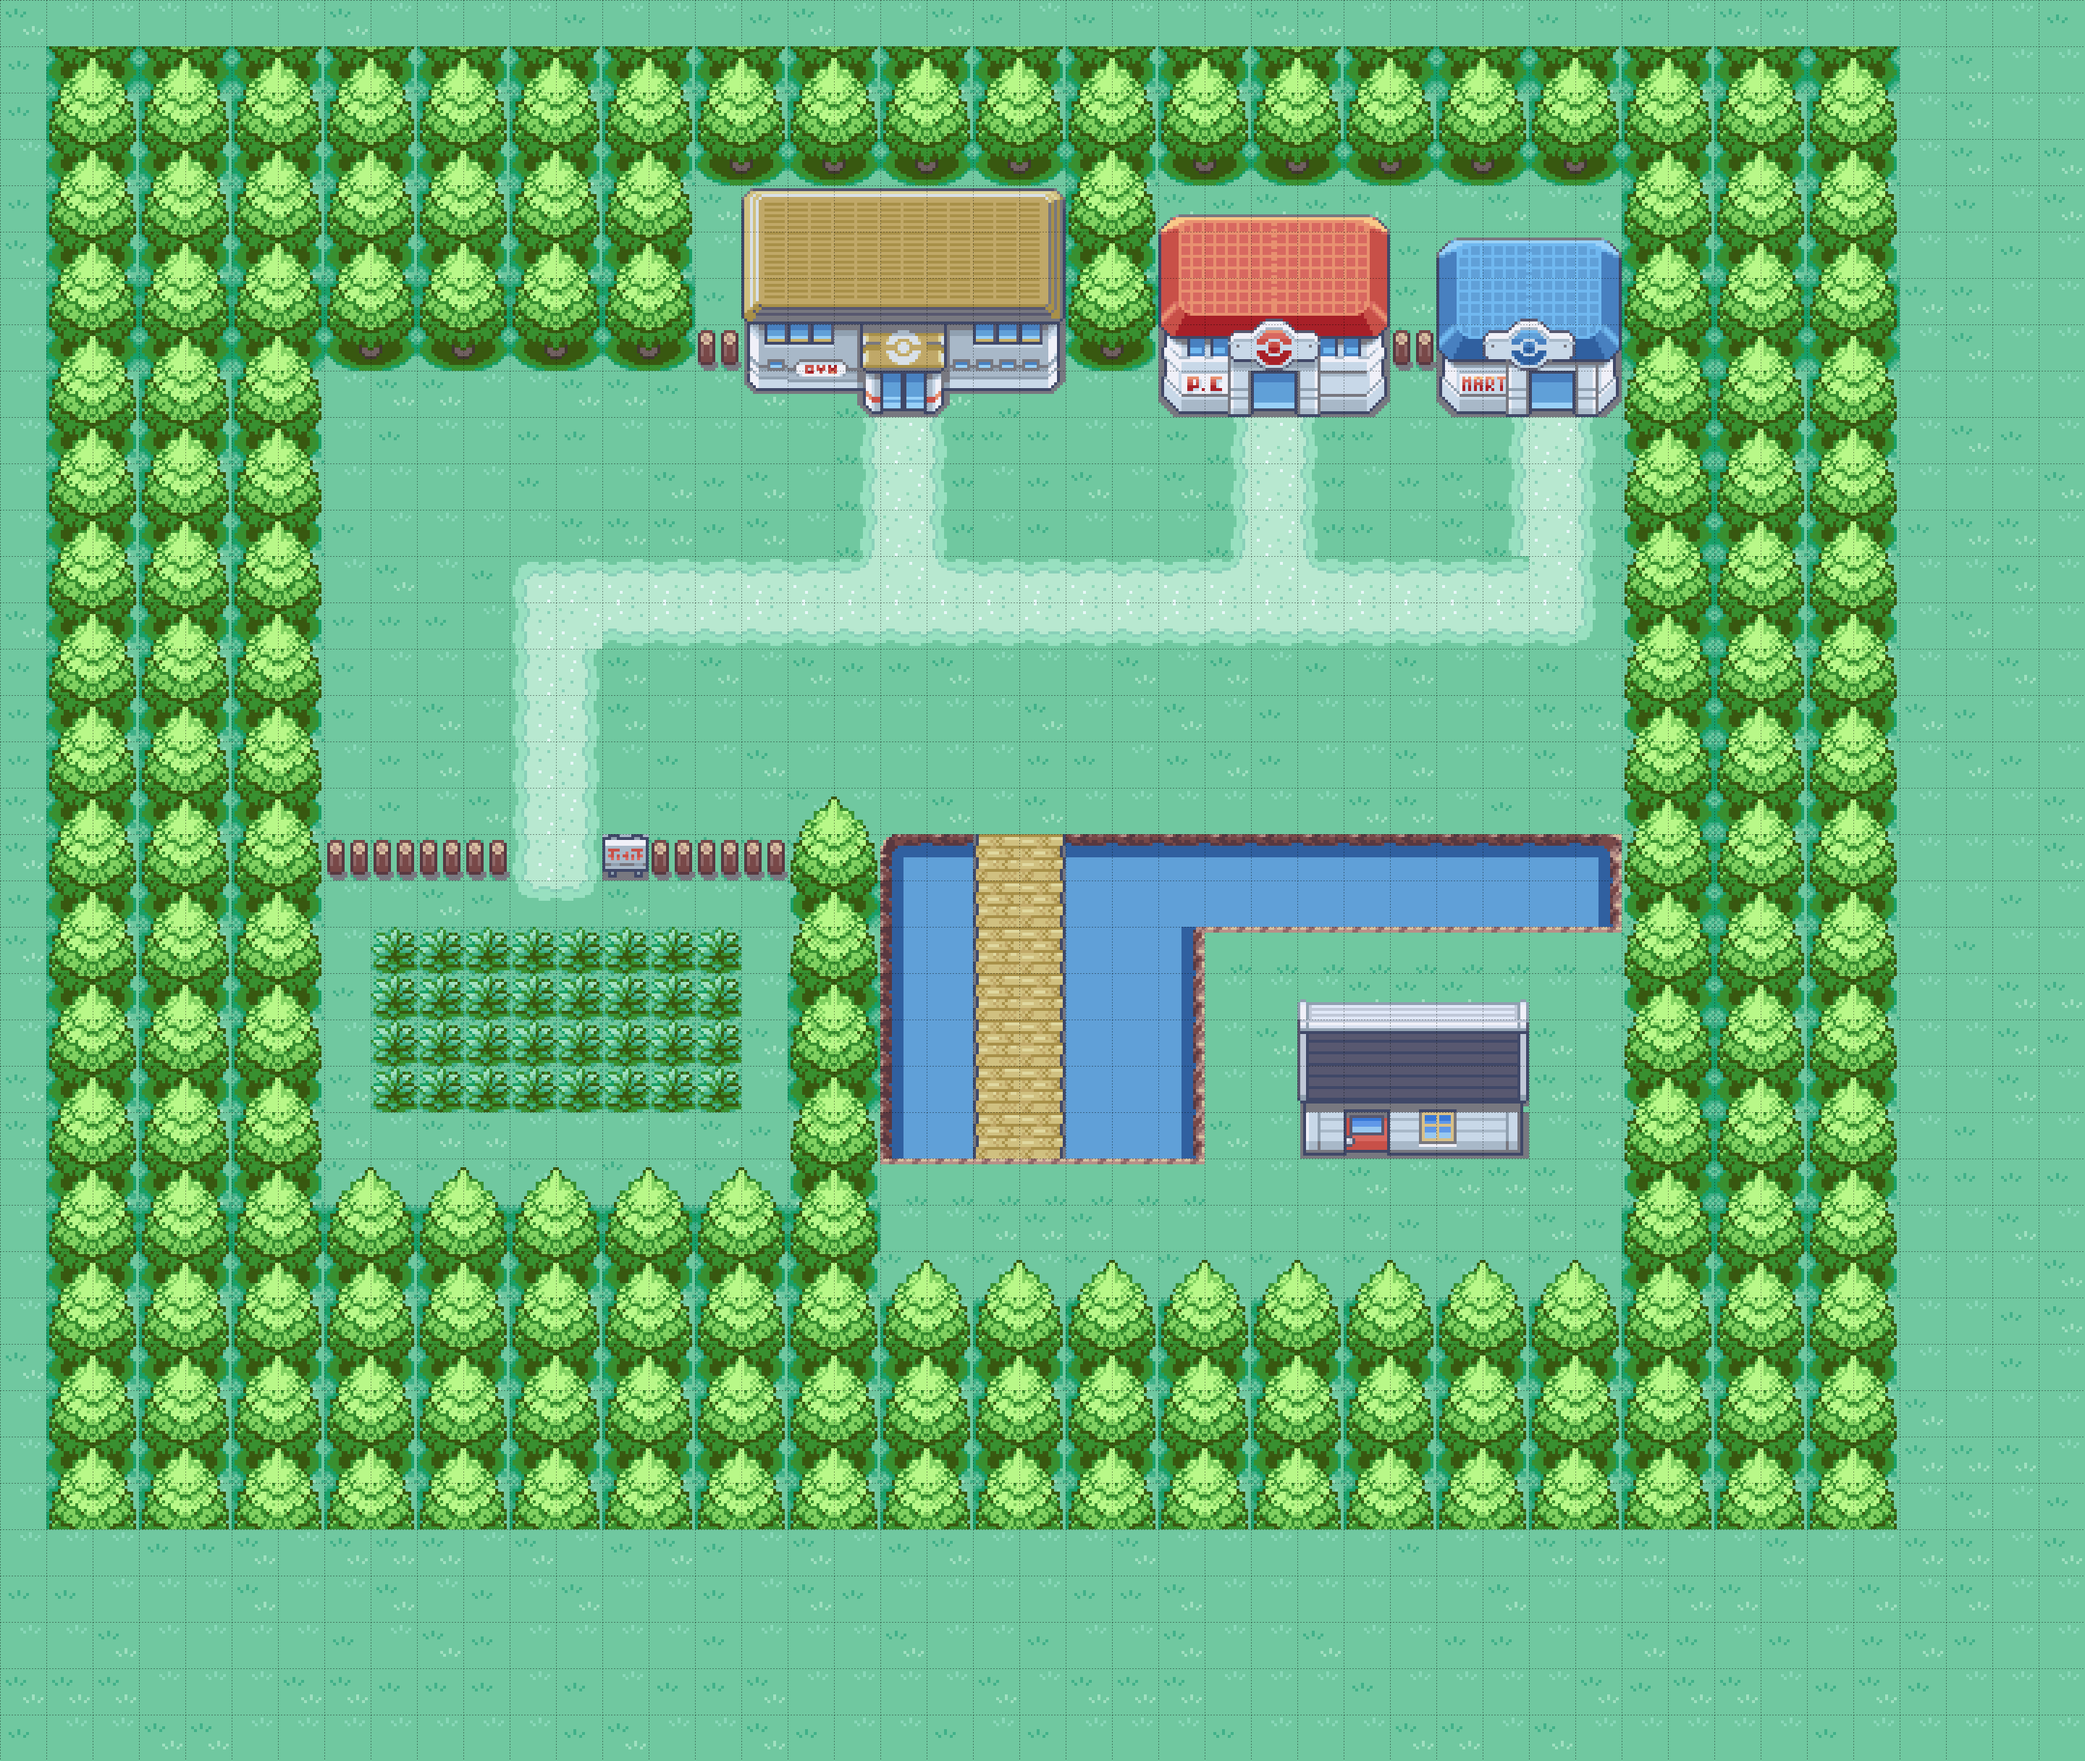
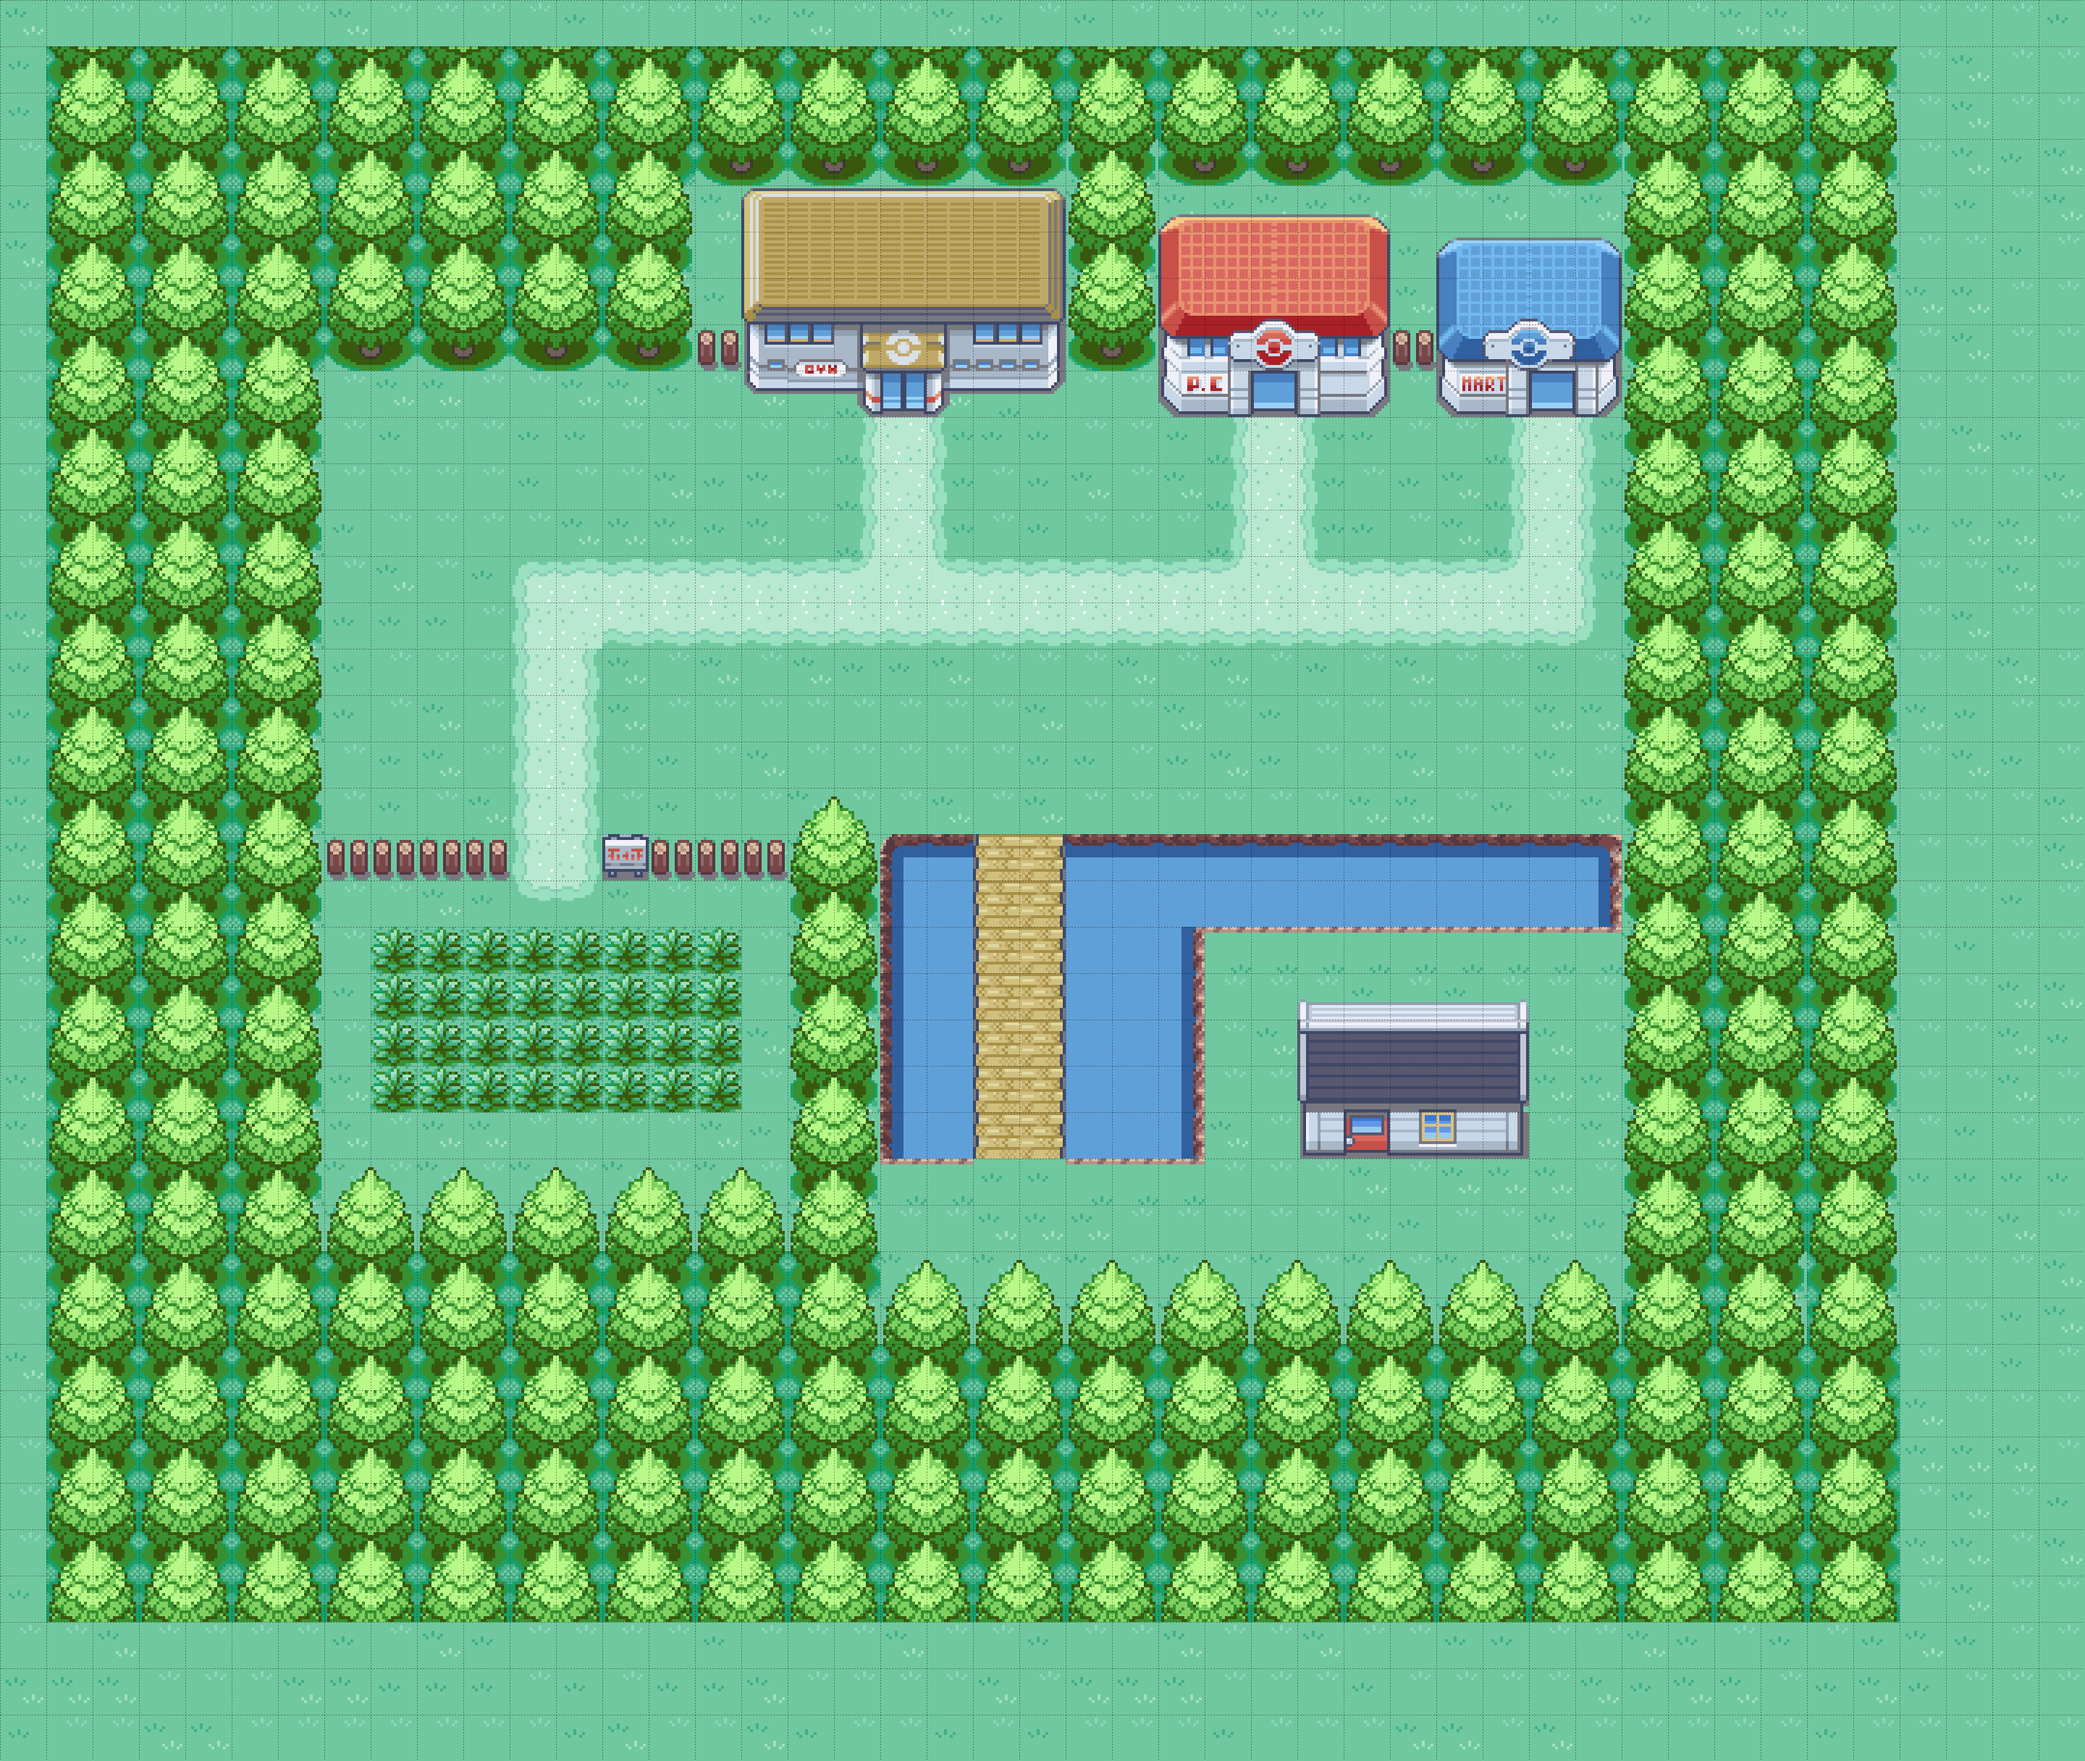
Implimented foreground

diff --git a/src/map.js b/src/map.js
@@ -9,6 +9,9 @@ export class Map {
         this.mapFile = mapFile;
         this.viewport = viewport;
 
+        this.foreground = new Image();
+        this.foreground.src = './img/maps/the-clearing-demo-foreground.png';
+
         this.spawnTile = {x: 15, y: 15};
 
         this.width = this.mapFile.width;
@@ -30,6 +33,27 @@ export class Map {
         
         ctx.drawImage(
             this.img,
+            
+            this.viewport.px - this.viewport.screen.x / 2,
+            this.viewport.py - this.viewport.screen.y / 2,
+
+            this.viewport.screen.x,
+            this.viewport.screen.y,
+
+            0,
+            0,
+
+            this.viewport.screen.x,
+            this.viewport.screen.y
+                    
+        );
+
+    }
+
+    drawFG () {
+        // console.log(typeof this.foreground)
+        ctx.drawImage(
+            this.foreground,
             
             this.viewport.px - this.viewport.screen.x / 2,
             this.viewport.py - this.viewport.screen.y / 2,

diff --git a/index.js b/index.js
@@ -4,7 +4,7 @@ import {Pokemon} from './src/pokemon.js'
 // import {toIndex} from './src/useful-functions.js';
 
 // mapFiles
-import clearingMapFile from './src/the-clearing-demo-mapfile-2.json' assert {type: 'json'};
+import clearingMapFile from './src/the-clearing-demo-mapfile.json' assert {type: 'json'};
 
 export const canvas = document.querySelector('#game-screen');
 export const ctx = canvas.getContext('2d');
@@ -209,7 +209,8 @@ function animate() {
     );
 
     currentMap.draw();
-    player.draw()
+    player.draw();
+    currentMap.drawFG();
 
     // console.log(player.tileFacing)
 

diff --git a/src/player.js b/src/player.js
@@ -326,7 +326,7 @@ export class Player {
                 this.direction = 'left';
                 break;
             case 'right':
-                case 'd':
+            case 'd':
                 nextTile.x += 1;
                 this.direction = 'right';
                 break;

diff --git a/tiled/tilesets/foreground.tsx b/tiled/tilesets/foreground.tsx
@@ -1,0 +1,4 @@
+<?xml version="1.0" encoding="UTF-8"?>
+<tileset version="1.9" tiledversion="1.9.2" name="foreground" tilewidth="16" tileheight="16" tilecount="190" columns="19">
+ <image source="../maps/foreground.png" trans="ff00ff" width="304" height="160"/>
+</tileset>
